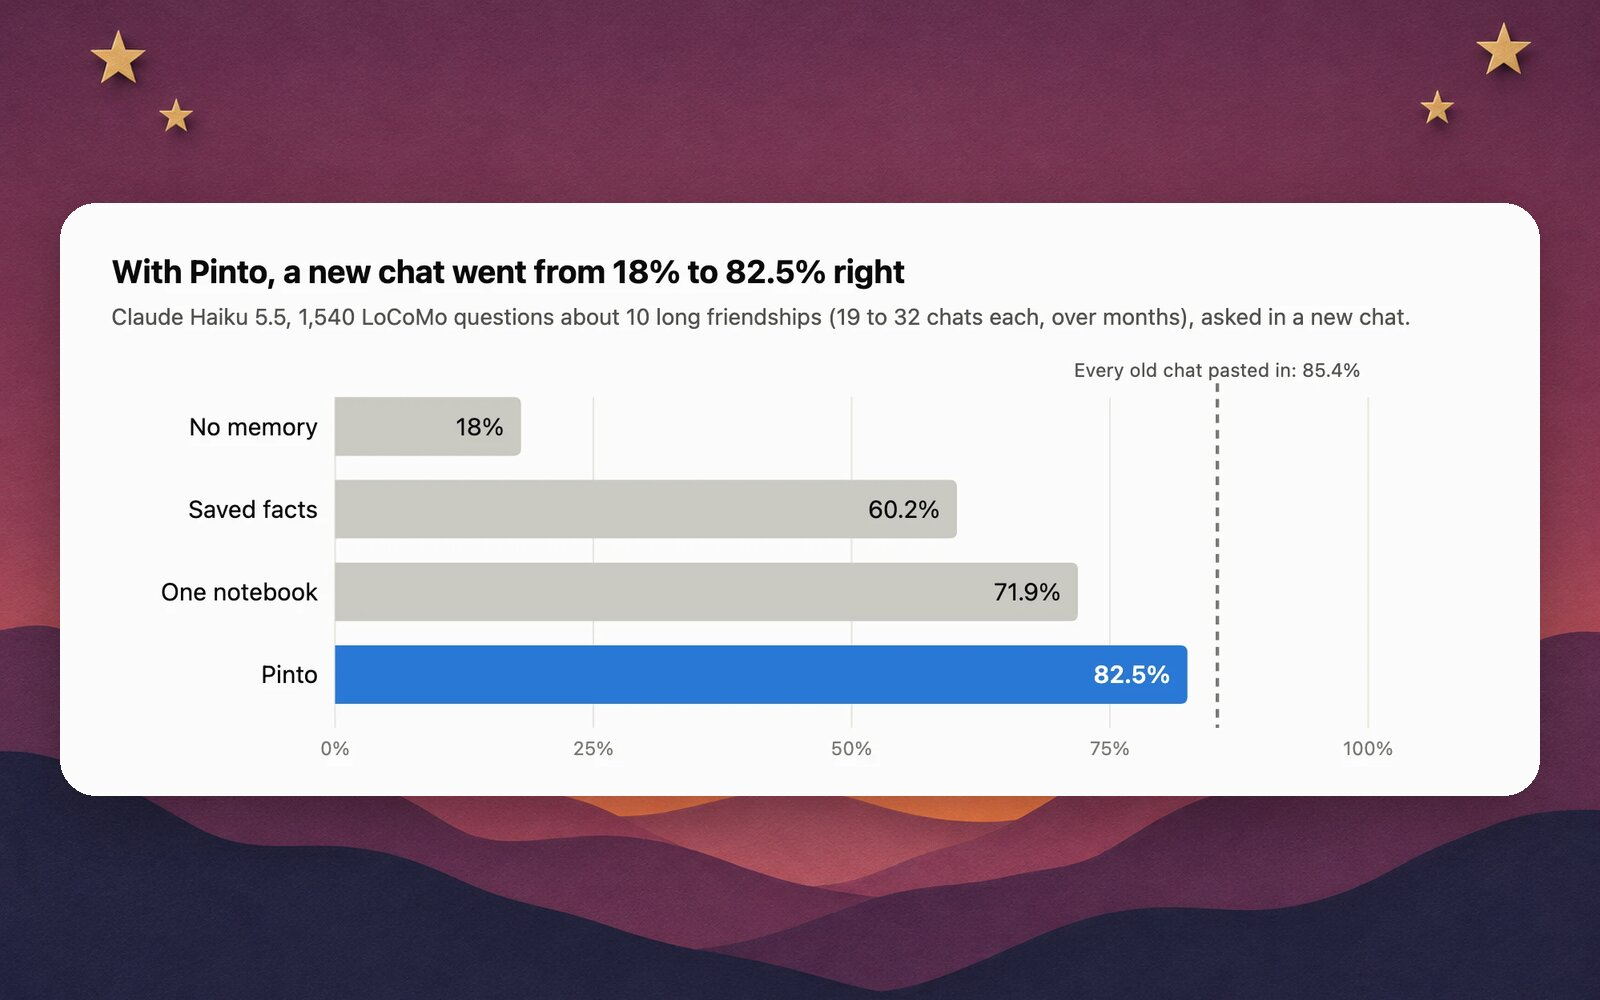
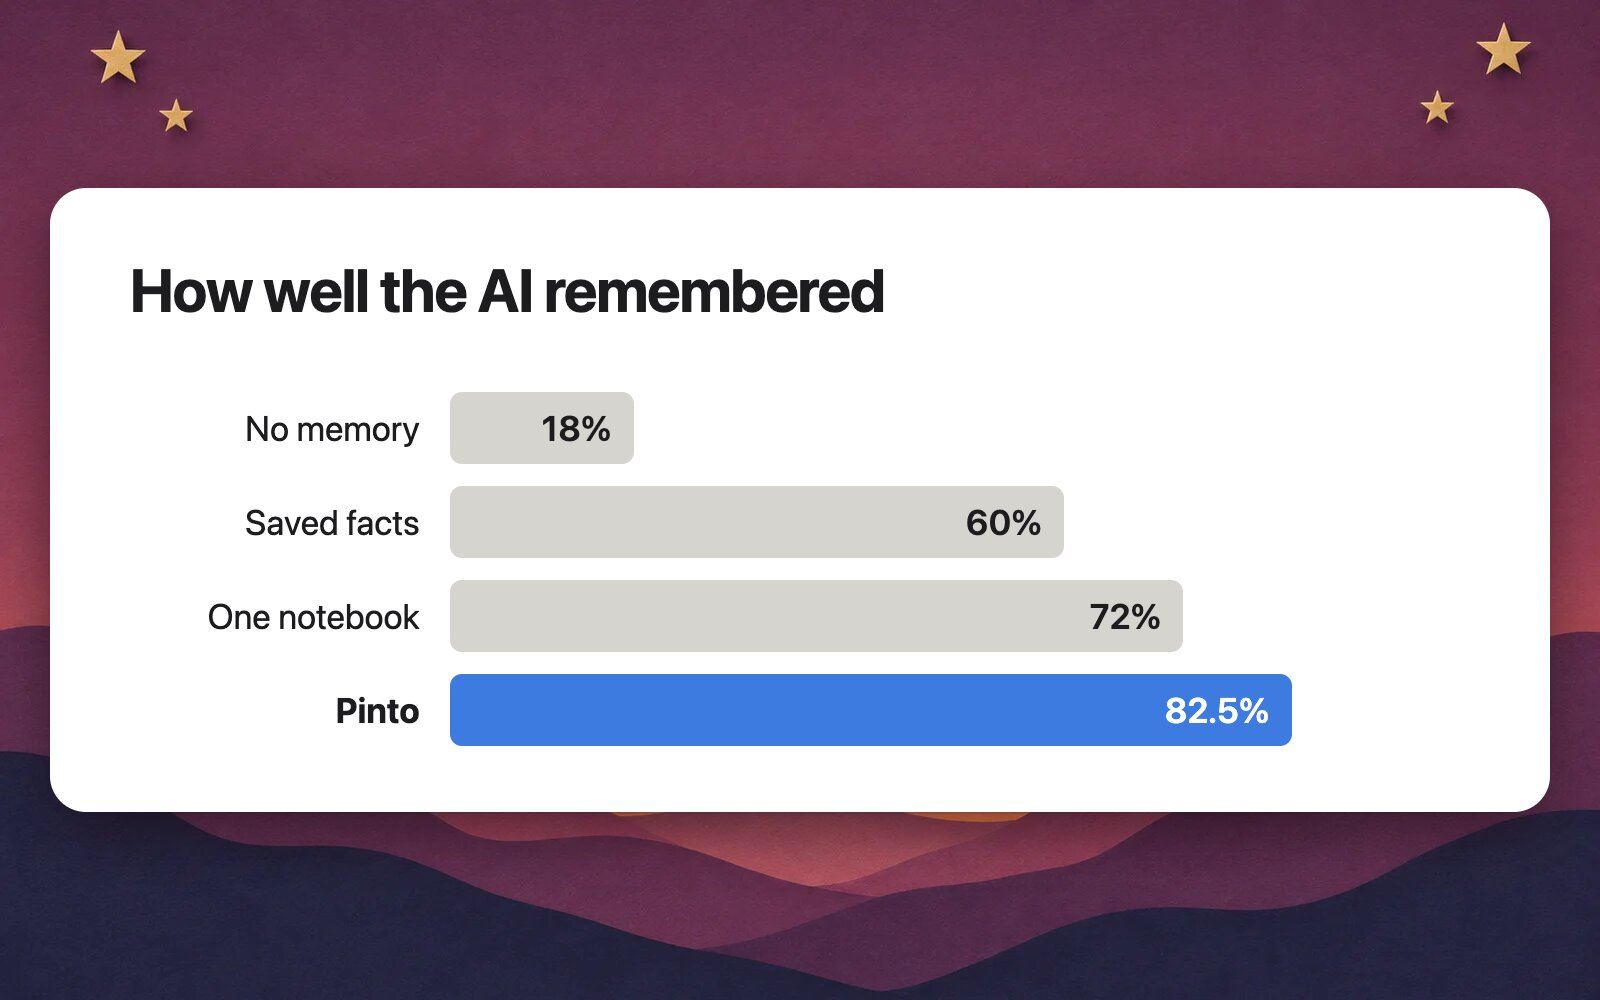
Blog: a simpler memory study cover (#682)
* Blog: a simpler memory study cover

Plain dusk ground without the stars and hills; the chart keeps the headline
and the four bars, without the subtitle, axis and the pasted-chats line.
Emil, 13 Nov: "could this cover be a little bit simpler?"

* Blog: memory study cover keeps the dusk art; the chart title says what is measured

Emil, 13 Nov: keep the previous background; the title should be what is measured.

* Blog: memory study cover title: How well the AI remembered

Emil, 13 Nov.

* Blog: the memory study gets the download card, a shorter answer and a note picture

The answer gives two numbers and says what memory means here; the download card sits
under it, as in B1. 'What the AI kept in Pinto' shows a made-up note in the shape the
AI chose (LoCoMo text can't be reused). Test: posts since B1 carry the card.

---------

Changed region(s): [[0.0312, 0.186, 0.9688, 0.837]]

diff --git a/web/app/blog/ai-memory-with-notes/page.tsx b/web/app/blog/ai-memory-with-notes/page.tsx
@@ -1,3 +1,5 @@
+import { NoteMoment } from "@/lib/NoteMoment";
+import { PostCta } from "@/lib/PostCta";
 import { PostPage, postMetadata } from "@/lib/PostPage";
 import { Answer } from "@/lib/PostParts";
 
@@ -44,10 +46,16 @@ export default function Page() {
           { href: "#run-it", label: "Run it yourself" },
         ]}>
           <p>
-            In a new chat, Claude Haiku answered 18% of 1,540 questions about past chats right. With a list of saved facts, 60%. With
-            one notebook it kept itself, 72%. With Pinto Notes connected, 82.5%. Pasting every old chat in got 85.4%, which no chat app
-            lets you do. The biggest gap was dates: 48% with saved facts, 87% with Pinto.
+            In a new chat, Claude answered 18% of questions about months of past chats right. With Pinto Notes connected, 82.5%.
           </p>
+          <p>
+            Memory here means what the AI wrote down after each chat and could look up in the next one: nothing, a short list of saved
+            facts, one notebook, or its own notes in Pinto Notes. Every number is below.
+          </p>
+          {/* 13 Nov 2026 (Emil: "sounds good"): the download where readers are, as in experiment B1. */}
+          <PostCta slug="ai-memory-with-notes" position="answer" title="Want your AI to remember?">
+            <p>Pinto Notes works like Apple Notes, and ChatGPT and Claude can keep their notes in it, where you can read and fix them.</p>
+          </PostCta>
         </Answer>
       }
       faq={FAQ}
@@ -111,6 +119,21 @@ export default function Page() {
       </p>
 
       <h2 id="what-it-wrote">What the AI kept in Pinto</h2>
+      <NoteMoment
+        me="Remember this chat in Pinto Notes for next time."
+        reply="Saved. I added today's news to Sam's note and kept a note of this chat."
+        ai="Claude"
+        glyph="claude"
+        title="Sam"
+        kind="bullet"
+        lines={[
+          { text: "Nurse, works nights" },
+          { text: "Sister Mia moved to Berlin in April" },
+          { text: "Started a pottery class on 12 May", by: true },
+          { text: "Wants to go to Lisbon in October", by: true },
+        ]}
+        caption="An example made up for this page, in the shape the AI chose in the test: a note per person, with dates. The test's own notes stay out, because its data can't be reused commercially."
+      />
       <p>
         Across the 10 conversations, Haiku made 275 notes, edited them 937 times, and ran 600 searches and 6,671 fetches. It settled
         on a note for each person and a dated note for each chat, the way you might set up a notebook by hand.

diff --git a/web/lib/answer-cta.test.ts b/web/lib/answer-cta.test.ts
@@ -10,6 +10,8 @@ const B1 = [
   "move-apple-notes-to-obsidian-notion-keep", "export-apple-notes-to-markdown", "notes-in-claude-code-and-codex", "obsidian-mcp",
   "move-from-apple-notes",
 ];
+// Posts written or changed after B1 started carry the same card, outside the experiment.
+const LATER = ["apple-notes-version-history", "apple-notes-budget-template", "ai-memory-with-notes"];
 const CONTROL = ["apple-notes-not-syncing", "forgot-apple-notes-password", "move-apple-notes-to-icloud", "recover-deleted-apple-notes"];
 
 const source = (slug: string) => readFileSync(join(process.cwd(), "app", "blog", slug, "page.tsx"), "utf8");
@@ -22,6 +24,13 @@ describe("the download in a post's short answer", () => {
       const answer = /<Answer[\s\S]*?<\/Answer>/.exec(src)?.[0];
       // move-from-apple-notes has no answer box; its card follows "Before you start".
       if (answer) expect(answer, slug).toContain("<PostCta");
+    }
+  });
+
+  it("is in the answer of the posts written since, and of the memory study", () => {
+    for (const slug of LATER) {
+      const answer = /<Answer[\s\S]*?<\/Answer>/.exec(source(slug))?.[0] ?? "";
+      expect(answer, slug).toContain(`<PostCta slug="${slug}" position="answer"`);
     }
   });
 
